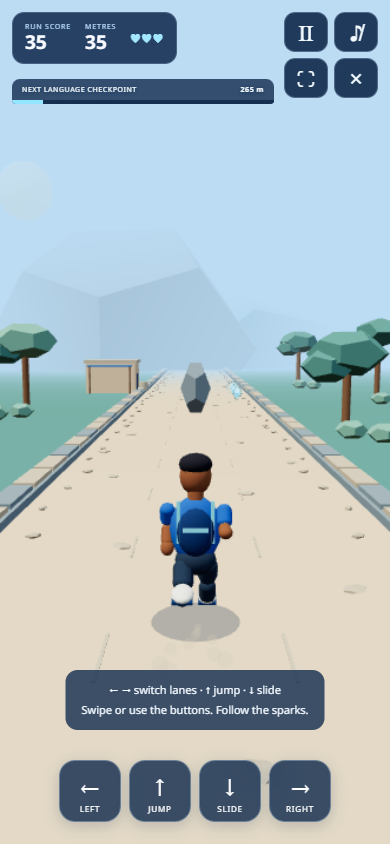
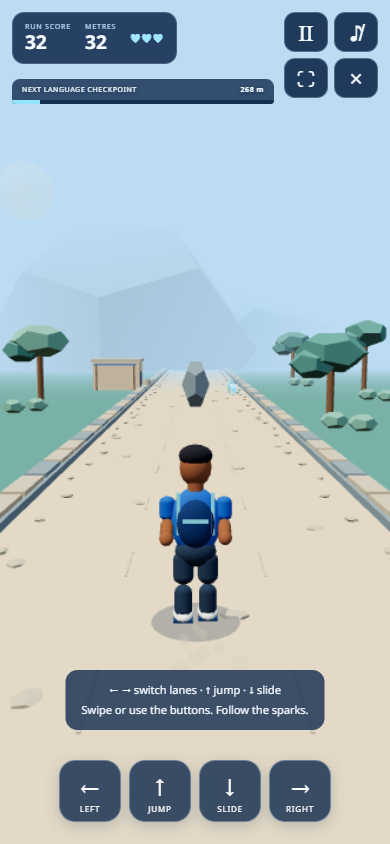
Record final blue palette and live catalogue verification

diff --git a/apps/updates-blog/posts/2026-10-14-word-trail-blue-horizon/README.md b/apps/updates-blog/posts/2026-10-14-word-trail-blue-horizon/README.md
@@ -5,7 +5,7 @@
 - Search description: An original fullscreen 3D language runner with an animated explorer, blue UI, safe contribution checkpoints and guest practice.
 - Date: 2026-10-14 (UTC)
 - Product route: https://indigenworld.com/labs/word-trail
-- Release status: Deployed and verified on production on 2026-10-14. Source commit: be1cf01eccd5feaf70e30a921dc55f5886f41ca7.
+- Release status: Deployed and verified on production on 2026-10-14. Final website source: 5cfe66fa8c5c345c11cb3daacee11adfc37a548b. Checkpoint API source: be1cf01eccd5feaf70e30a921dc55f5886f41ca7.
 - Blogger status: Prepared for Chinedum; unpublished. No community messages have been sent.
 
 ## What changed
@@ -58,3 +58,5 @@ Art specification: art.json. The established release-art renderer generated the 
 - On https://indigenworld.com, the Labs entry HTML, Labs JS/CSS, runner JS/CSS, actual gameplay preview and Three.js notice matched the release build byte for byte. SHA-256 evidence is in production-verification.json.
 - Actual signed-out production browsing at 390 × 844 opened practice, completed the countdown, advanced distance, rendered the 3D scene, paused and exited successfully. The public Labs bootstrap returned HTTP 200. The blue experiment catalogue also loaded. No production translation or account mutation was submitted.
 - screens/live-game-phone.png and screens/live-labs-blue.png are unretouched production screenshots from that browser viewport, without synthetic account or queue data. The framed article figures remain clearly identified local QA captures. This live browser check does not substitute for physical-phone performance, iOS/Safari or soft-keyboard verification.
+- The final Hosting-only blue-preview polish deployed from origin/main at 5cfe66fa. A locally filtered copy of firebase.json retained the exact indigen-world site settings and both standard predeploy commands, avoiding unrelated site hooks. The production-main guard, website validation, 29 tests and production build passed. API code was unchanged.
+- Final live verification completed at 2026-10-14T12:50:42.744Z. Updated hashes are in production-verification.json. The catalogue capture waited for fonts, image decoding and scroll-triggered card reveals; all four cards were inspected with the blue preview palette. Guest practice, distance progress, pause, exit and the successful public bootstrap were verified again.
